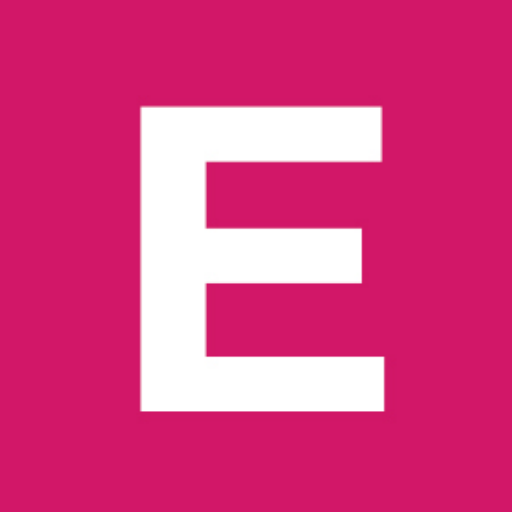
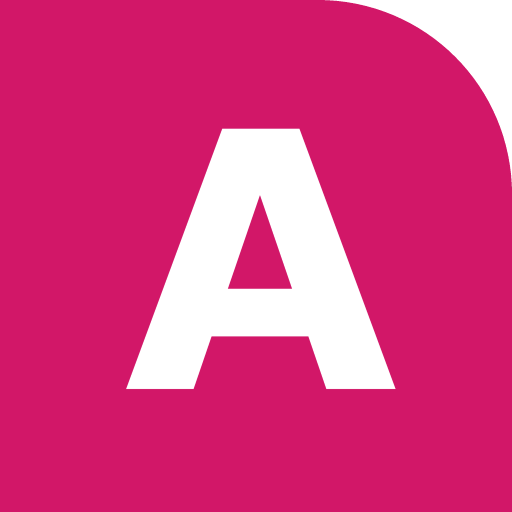
Progress

Changed region(s): [[0.25, 0.1875, 0.7812, 0.8125], [0.6562, 0.0, 1.0, 0.3438]]

diff --git a/css/main.css b/css/main.css
@@ -1,52 +1,3 @@
-/* =================================================================== 
- *
- *  Epitome Main Stylesheet
- *  Template Ver. 1.0.0
- *  04-22-2019
- *  ------------------------------------------------------------------
- *
- *  TOC:
- *  # base style overrides
- *     ## links
- *  # typography & general theme styles
- *    ## Lists
- *    ## responsive video container
- *    ## floated image
- *    ## tables
- *    ## Spacing 
- *    ## pace.js styles - minimal
- *  # preloader
- *  # forms 
- *    ## Style Placeholder Text
- *    ## Change Autocomplete styles in Chrome
- *  # buttons
- *  # additional components
- *    ## additional typo styles 
- *    ## skillbars
- *    ## alert box 
- *    ## pagination 
- *  # Common and Reusable Styles
- *  # header 
- *    ## header logo
- *    ## main navigation
- *    ## menu trigger
- *  # intro 
- *  # about
- *    ## timeline
- *  # services
- *  # CTA
- *  # works
- *  # testimonials
- *  # contact
- *  # footer
- *    ## copyright
- *    ## go to top
- *  # IE10/IE11 Specific
- *
- * =================================================================== */
-
-
-
 /* ===================================================================
  * # base style overrides
  *
@@ -1631,8 +1582,8 @@ input::-moz-focus-inner {
 }
 
 .header-logo img {
-  width: 132px;
-  height: 36px;
+  width: 300px;
+  height: 70px;
   margin: 0;
 }
 

diff --git a/index.html b/index.html
@@ -5,7 +5,7 @@
     <!--- basic page needs
     ================================================== -->
     <meta charset="utf-8">
-    <title>Epitome</title>
+    <title>Adrian Popescu</title>
     <meta name="description" content="">
     <meta name="author" content="">
 
@@ -45,7 +45,7 @@
 
         <div class="header-logo">
             <a class="site-logo" href="index.html">
-                <img src="images/logo.svg" alt="Homepage">
+                <img src="images/logo.png" alt="Homepage">
             </a>
         </div>
 
